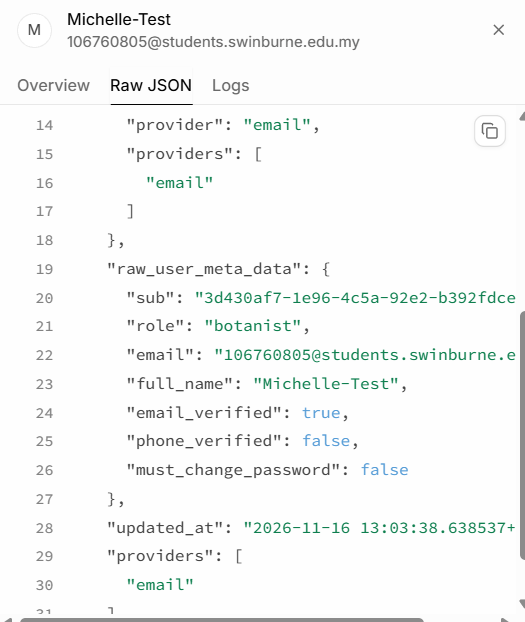
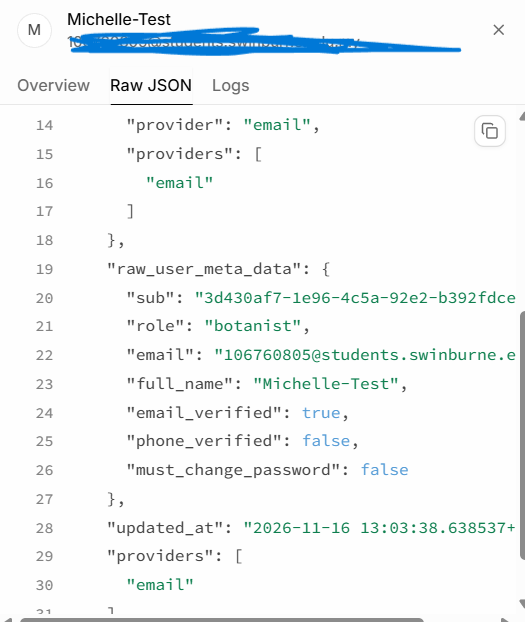
CTIP-74: cover W10c key and W9b email, rename W9b

Changed region(s): [[0.1219, 0.0305, 0.8838, 0.0916]]

diff --git a/docs/security/vulnerability-assessment-results.md b/docs/security/vulnerability-assessment-results.md
@@ -859,4 +859,4 @@ All paths are under `docs/testing/` on the `test-iot` branch.
 | 0.29 | 16 Nov 2026 | Final re-test (automated part) on main e01c642; new F-17 (push tokens, Medium) and F-18 (profile photo link, Low) from the review of code added after 13 Nov, both with a fix ready |
 | 0.30 | 16 Nov 2026 | Final re-test manual part: API A1 to A9 and Supabase S1 to S8 all Pass (new sections 3.5 and 4.5); F-17 and F-18 Fixed (PR #84, re-tested on the laptop); 2 new observations (API headers, live API on older code); W9/W10 wait for the redeploy |
 | 0.31 | 16 Nov 2026 | Website final re-test 5.5 (W1 to W6, W8, W11, W12 Pass; W7 not repeated; W9, W10 waiting); F-17/F-18 rows added to 3.1 and 3.3; VA-10 Pass; A10 Pass |
-| 0.32 | 16 Nov 2026 | W9 (F-16) and W10 (lost phone) Pass on the live website after the redeploy; new observation: live Supabase Site URL/Redirect URLs fixed; F-10 row added to 5.2 and VA-45 row says Fixed |
+| 0.32 | 16 Nov 2026 | W9 (F-16) and W10 (lost phone) Pass on the live website after the redeploy; new observation: live Supabase Site URL/Redirect URLs fixed; F-10 row added to 5.2 and VA-45 row says Fixed; W7 Pass; F-05 row added to 6.2 (accepted risk) |
